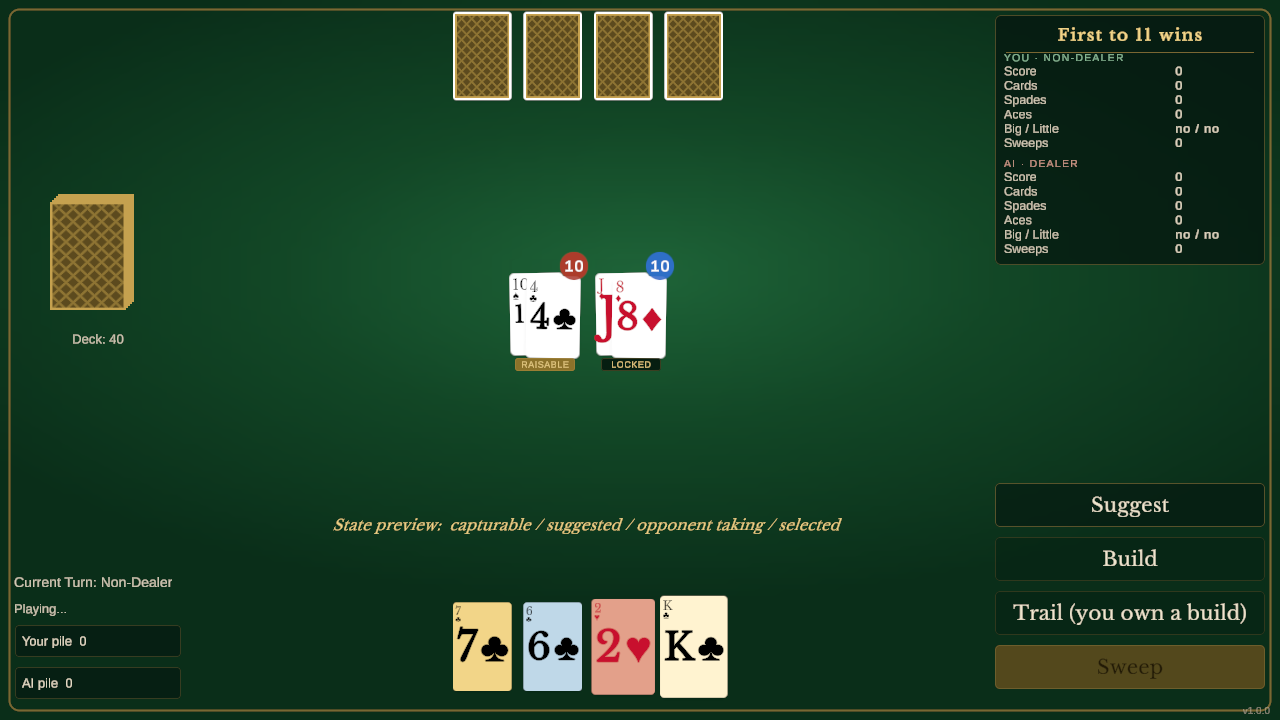
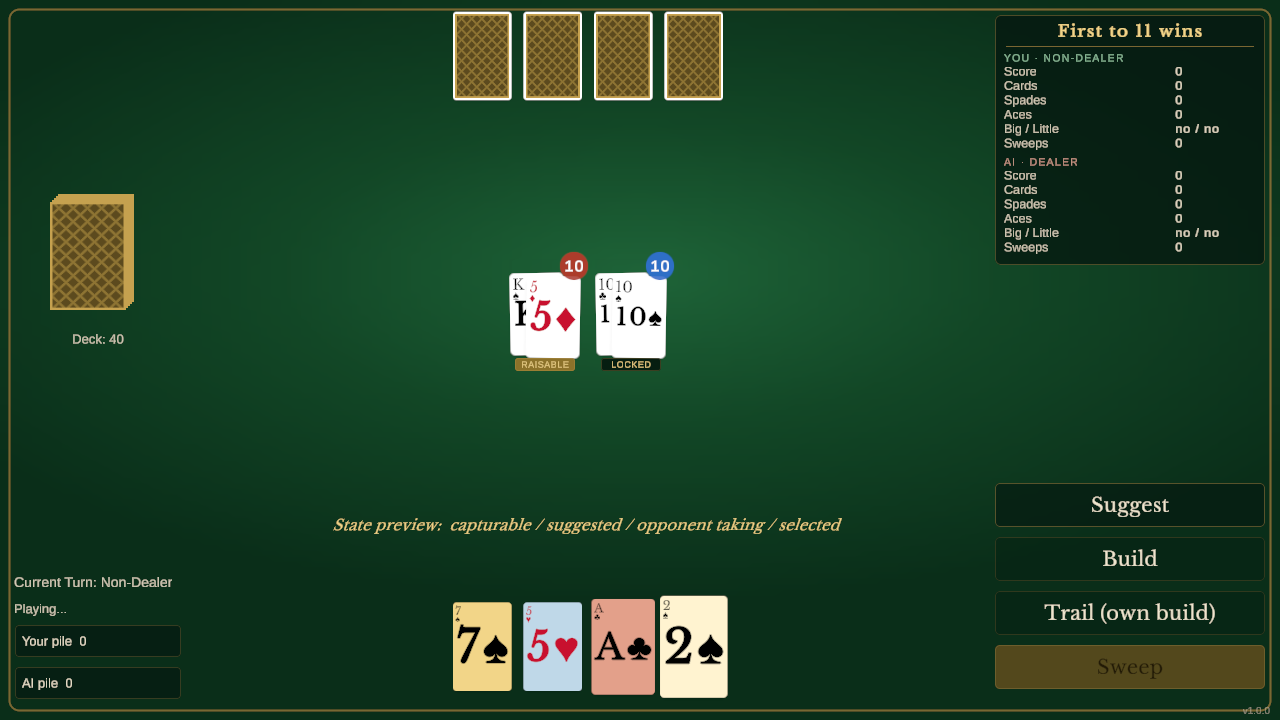
Score panel survives any panel size; unattended runs stop failing silently
Two fixes, both to things that had already bitten twice.

Score panel internals were positioned with percentage anchors, so its contents
depended on its height and every new profile silently overlapped them: portrait
first, then compact, where the player's Sweeps row ran into the AI header. They
are now pinned to the top with fixed offsets and a named StatBlockHeight, so any
panel at or above the stated minimum works and the profiles just have to be tall
enough. Compact and portrait Score zones grew to 246 to meet it.

The verify loop was failing silently and intermittently, which is worse than
failing outright: I twice read a stale screenshot as a fresh one and drew
conclusions from it. Two causes, both now fixed:

  - GameViewSizePin and AutoVerifyPlay both scheduled themselves with delayCall,
    so whichever ran second decided whether the requested Game view size was in
    effect. AutoVerifyPlay now pins explicitly before entering Play.
  - `touch auto-verify.flag` did nothing on its own, because Unity skips the
    reimport when a file's contents have not changed, so no domain reload
    happened and the flag was never read. AutoVerifyPlay now polls for the flag
    on EditorApplication.update instead of only at load.

All three breakpoints verified on screen with the state preview staged, and the
renders are checked in: wide, compact 4:3, portrait. Trail's label shortened to
"Trail (own build)" because the longer one wrapped in portrait's narrower button.
[…]

diff --git a/Assets/Scripts/UIManager.cs b/Assets/Scripts/UIManager.cs
@@ -1213,6 +1213,10 @@ public class UIManager : MonoBehaviour
         if (ghost != null) Destroy(ghost.gameObject);
     }
 
+    // Six rows at 12.5pt plus the side header. The score panel must be at least
+    // 38 + 2*this + 8 tall, which is why every Profile's Score zone is >= 246.
+    private const float StatBlockHeight = 96f;
+
     private void CreateScorePanel()
     {
         GameObject panel = new("ScorePanel");
@@ -1230,10 +1234,11 @@ public class UIManager : MonoBehaviour
 
         scoreHeaderText = CreateText("Header", panel.transform);
         var hr = scoreHeaderText.rectTransform;
-        hr.anchorMin = new Vector2(0, 0.85f);
-        hr.anchorMax = Vector2.one;
-        hr.offsetMin = new Vector2(8, 0);
-        hr.offsetMax = new Vector2(-8, -4);
+        hr.anchorMin = new Vector2(0, 1);
+        hr.anchorMax = new Vector2(1, 1);
+        hr.pivot = new Vector2(0.5f, 1);
+        hr.anchoredPosition = new Vector2(0, -4);
+        hr.sizeDelta = new Vector2(-16, 26);
         scoreHeaderText.fontSize = 17;
         scoreHeaderText.fontStyle = FontStyles.Bold;
         scoreHeaderText.alignment = TextAlignmentOptions.Center;
@@ -1245,31 +1250,33 @@ public class UIManager : MonoBehaviour
         GameObject rule = new("Rule");
         rule.transform.SetParent(panel.transform, false);
         var rr = rule.AddComponent<RectTransform>();
-        rr.anchorMin = new Vector2(0, 0.85f);
-        rr.anchorMax = new Vector2(1, 0.85f);
+        rr.anchorMin = new Vector2(0, 1);
+        rr.anchorMax = new Vector2(1, 1);
         rr.pivot = new Vector2(0.5f, 1);
-        rr.offsetMin = new Vector2(12, -1);
-        rr.offsetMax = new Vector2(-12, 0);
+        rr.anchoredPosition = new Vector2(0, -32);
+        rr.sizeDelta = new Vector2(-24, 1);
         var ruleImg = rule.AddComponent<Image>();
         ruleImg.color = CasinoTheme.Divider;
         ruleImg.raycastTarget = false;
 
         humanStatsText = CreateText("HumanStats", panel.transform);
         var hu = humanStatsText.rectTransform;
-        hu.anchorMin = new Vector2(0, 0.45f);
-        hu.anchorMax = new Vector2(1, 0.85f);
-        hu.offsetMin = new Vector2(10, 0);
-        hu.offsetMax = new Vector2(-10, 0);
+        hu.anchorMin = new Vector2(0, 1);
+        hu.anchorMax = new Vector2(1, 1);
+        hu.pivot = new Vector2(0.5f, 1);
+        hu.anchoredPosition = new Vector2(0, -38);
+        hu.sizeDelta = new Vector2(-20, StatBlockHeight);
         humanStatsText.fontSize = 12.5f;
         humanStatsText.alignment = TextAlignmentOptions.TopLeft;
         humanStatsText.color = CasinoTheme.TextMuted;
 
         aiStatsText = CreateText("AIStats", panel.transform);
         var ai = aiStatsText.rectTransform;
-        ai.anchorMin = new Vector2(0, 0.03f);
-        ai.anchorMax = new Vector2(1, 0.43f);
-        ai.offsetMin = new Vector2(10, 0);
-        ai.offsetMax = new Vector2(-10, 0);
+        ai.anchorMin = new Vector2(0, 1);
+        ai.anchorMax = new Vector2(1, 1);
+        ai.pivot = new Vector2(0.5f, 1);
+        ai.anchoredPosition = new Vector2(0, -(38 + StatBlockHeight + 8));
+        ai.sizeDelta = new Vector2(-20, StatBlockHeight);
         aiStatsText.fontSize = 12.5f;
         aiStatsText.alignment = TextAlignmentOptions.TopLeft;
         aiStatsText.color = CasinoTheme.TextMuted;
@@ -1845,7 +1852,7 @@ public class UIManager : MonoBehaviour
             GameManager.Instance.PlayerOwnsBuild(GameManager.Instance.GetCurrentPlayer());
         trailButton.interactable = humanTurn && selectedCard != null && !ownsBuild
                                    && buildSelection.Count == 0;
-        trailButtonLabel.text = ownsBuild ? "Trail (you own a build)" : "Trail";
+        trailButtonLabel.text = ownsBuild ? "Trail (own build)" : "Trail";
 
         // Sweep: takes the chosen cards/builds, or everything that applies
         bool canSweep = false;

diff --git a/Assets/Scripts/CasinoLayout.cs b/Assets/Scripts/CasinoLayout.cs
@@ -118,15 +118,15 @@ public static class CasinoLayout
         Hint         = new Zone(0.5f, 0f, -48, 152, 500, 44),
         PlayerHand   = new Zone(0.5f, 0f, -48, 12, 420, 140),
 
-        Score = new Zone(1f, 1f, -12, -12, 236, 220),
+        Score = new Zone(1f, 1f, -12, -12, 236, 246),
         ActionAnchor = new Vector2(1, 0),
         ActionFirst  = new Vector2(-12, 28),
         ActionStep   = new Vector2(0, 50),
         ActionSize   = new Vector2(236, 44),
 
         DrawPile   = new Zone(0f, 0f, 38, 416, 88, 120),
-        TurnText   = new Zone(0f, 0f, 12, 122, 150, 24),
-        StatusText = new Zone(0f, 0f, 12, 96, 150, 24),
+        TurnText   = new Zone(0f, 0f, 12, 122, 180, 24),
+        StatusText = new Zone(0f, 0f, 12, 96, 180, 24),
         PlayerPile = new Zone(0f, 0f, 12, 56, 140, 32),
         AiPile     = new Zone(0f, 0f, 12, 18, 140, 32),
 
@@ -151,10 +151,10 @@ public static class CasinoLayout
         // 220 tall, not 92: the score panel's internal layout is authored for a
         // column of eight stat lines and is not itself profile-aware, so a short
         // wide bar makes its children collide. Give it the height it needs.
-        Score        = new Zone(0.5f, 1f, 0, -10, 700, 220),
-        OpponentHand = new Zone(0.5f, 1f, 0, -240, 684, 120),
-        PlayerPile   = new Zone(0f, 1f, 14, -368, 336, 34),
-        AiPile       = new Zone(1f, 1f, -14, -368, 336, 34),
+        Score        = new Zone(0.5f, 1f, 0, -10, 700, 246),
+        OpponentHand = new Zone(0.5f, 1f, 0, -266, 684, 120),
+        PlayerPile   = new Zone(0f, 1f, 14, -394, 336, 34),
+        AiPile       = new Zone(1f, 1f, -14, -394, 336, 34),
 
         Table      = new Zone(0.5f, 0.5f, 0, 60, 684, 300),
         Hint       = new Zone(0.5f, 0f, 0, 470, 660, 56),

diff --git a/Assets/Scripts/Editor/AutoVerifyPlay.cs b/Assets/Scripts/Editor/AutoVerifyPlay.cs
@@ -10,10 +10,27 @@ public static class AutoVerifyPlay
 {
     static string Marker => Path.Combine(Application.dataPath, "..", "auto-verify.flag");
 
+    // Poll rather than only checking at load. The flag used to be read once per
+    // domain reload, so `touch auto-verify.flag` on its own did nothing: Unity
+    // skips the reimport when a file's contents have not changed, so no reload
+    // happened and the flag sat there. That made unattended runs fail silently
+    // and intermittently, which is worse than failing outright.
+    private const double PollSeconds = 0.5;
+    private static double nextPoll;
+
     static AutoVerifyPlay()
     {
+        EditorApplication.update += Poll;
+        if (File.Exists(Marker)) EditorApplication.delayCall += Kick;
+    }
+
+    static void Poll()
+    {
+        if (EditorApplication.timeSinceStartup < nextPoll) return;
+        nextPoll = EditorApplication.timeSinceStartup + PollSeconds;
+        if (EditorApplication.isCompiling || EditorApplication.isUpdating) return;
         if (!File.Exists(Marker)) return;
-        EditorApplication.delayCall += Kick;
+        Kick();
     }
 
     static void Kick()
@@ -38,6 +55,9 @@ public static class AutoVerifyPlay
     static void StartFresh()
     {
         try { File.Delete(Marker); } catch { }
+        // Pin the Game view first: entering Play with the wrong size makes the
+        // whole run useless, and both used to race on delayCall.
+        GameViewSizePin.ApplyRequested();
         Debug.Log("AutoVerifyPlay: entering Play mode fresh");
         EditorApplication.EnterPlaymode();
     }

diff --git a/Assets/Scripts/Editor/GameViewSizePin.cs b/Assets/Scripts/Editor/GameViewSizePin.cs
@@ -34,7 +34,13 @@ public static class GameViewSizePin
     private static string RequestPath =>
         Path.GetFullPath(Path.Combine(Application.dataPath, "..", "gameview.txt"));
 
-    static GameViewSizePin() => EditorApplication.delayCall += () => Pin(Requested(), false);
+    static GameViewSizePin() => EditorApplication.delayCall += () => ApplyRequested();
+
+    // Called directly by AutoVerifyPlay before it enters Play mode. Both used to
+    // schedule themselves with delayCall, so whichever ran second decided whether
+    // the requested size was actually in effect for the run: a switch would be
+    // silently ignored roughly half the time. Explicit ordering removes the race.
+    public static void ApplyRequested() => Pin(Requested(), false);
 
     [MenuItem("Casino/Game View/Wide 1280x720")]
     private static void PinWide() => Pin(Wide, true);
